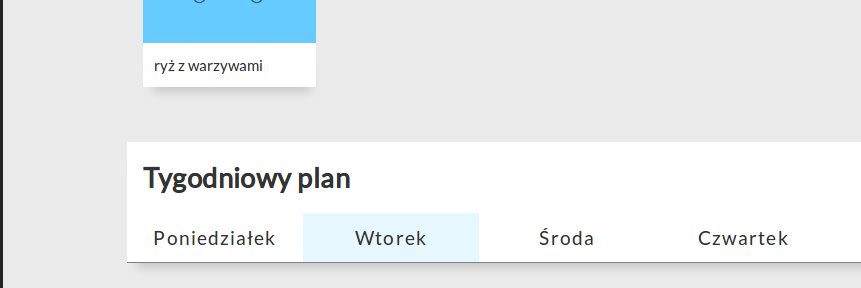
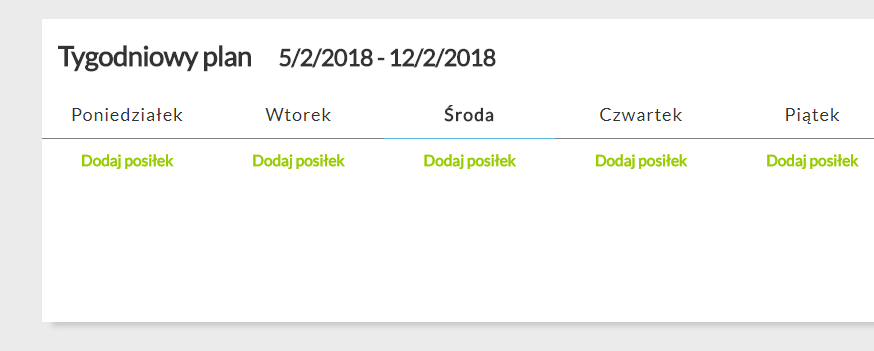
v2

diff --git a/public/javascripts/newMealCtrl.js b/public/javascripts/newMealCtrl.js
@@ -5,24 +5,50 @@ function($scope,$location,auth,$http){
 
 	$scope.editmeal=false;
 	var currentEditedID;
-	$scope.currentChoice;
-	$scope.choiceButton="Dodaj posiłek"
-	$scope.newMealName = "Nazwa posiłku"
+	$scope.currentChoice="add";
+	$scope.choiceButton="DODAJ"
+	$scope.newMealName = ""
 	$scope.ingredients = [{name: "",count: 1,unit: "" }];
 
 	$scope.addMeal = function(){
 		postData = { name:$scope.newMealName,username:auth.currentUser(),products:$scope.ingredients};
 		if($scope.currentChoice=="add"){
-			$http.post("/mealslist", postData).success(function(data2,status) {
+			console.log("xd")
+			$http.post("/mealslist", postData).then(function(response) {
 				succesModalonEdit('Dodałeś posiłek','Dodaj kolejny, lub przejdź do układania planu');
 				$scope.ingredients = [{name: "",count: 1,unit: "" }];
-				$scope.newMealName = "Nazwa posiłku"
+				$scope.newMealName=""
+			},function(response){
+				var errormessage = '';
+				response.data.forEach(element => {
+					errormessage+=`<div style="display:block">&#9679;&nbsp;${element}</div>`
+				});
+				console.log(errormessage)
+				swal({
+					title:"Popraw błędy:",
+					type:"warning",
+					html: errormessage,
+				})
+				$scope.refresh();
 			});
 		}else{
-			$http.put("/mealslist/"+currentEditedID, postData).success(function() {
+			$http.put("/mealslist/"+currentEditedID, postData).then(function(response) {
 				succesModalonEdit('Posiłek został zedytowany','');
 				$scope.ingredients = [];
+				$scope.newMealName=""
 				$scope.refresh();
+			},function(response){
+				var errormessage = '';
+				response.data.forEach(element => {
+					errormessage+=`<div style="display:block">&#9679;&nbsp;${element}</div>`
+				});
+				console.log(errormessage)
+				swal({
+					title:"Popraw błędy:",
+					type:"warning",
+					html: errormessage,
+					showCloseButton : true
+				})
 			});
 		}
 		
@@ -52,14 +78,16 @@ function succesModalonEdit(message1,message2){
    		choiceElement.addClass('green');
    		var myEl = angular.element( document.querySelector( '#allMeals' ) );
 
-		$scope.editmeal = !$scope.editmeal
+		 
    		if(choice=='add'){
-   			$scope.choiceButton="Dodaj posiłek"
+			$scope.editmeal=false;
+   			$scope.choiceButton="DODAJ"
    			$scope.newMealName = "Nazwa posiłku"
 			$scope.ingredients = [{name: "",count: 1,unit: "" }];
    		}
    		if(choice=='edit'){
-   			$scope.choiceButton="Edytuj posiłek"
+			$scope.editmeal=true;
+   			$scope.choiceButton="EDYTUJ"
    			$scope.newMealName = 'Wybierz posiłek';
 			$scope.ingredients = [];
    		}
@@ -119,6 +147,8 @@ function succesModalonEdit(message1,message2){
 				'Posiłek został usunięty.',
 				'success'
 			)
+			$scope.ingredients = [];
+			$scope.newMealName
 		})
 	}
 

diff --git a/routes/dbroutes.js b/routes/dbroutes.js
@@ -20,14 +20,22 @@ router.get('/mealslist/:username', function(req,res,next){
 });
 
 router.post('/mealslist', function(req,res,next){
-  var meal = new Meal(req.body);
+  var products = req.body.products;
+  var name = req.body.name
+  var errors = [];
+  if(name==''){errors.push(`Wprowadź nazwę posiłku`)}
+  if(products.length==0){errors.push(`Wprowadz składniki`)}
+  products.forEach((element,i) => {
+    console.log(`${element.name} + ${element.unit}`)
+    if(element.name=='' || element.unit ==''){
+      errors.push(`Puste pola w składniku nr ${i+1}`)
+    }
+  });
 
-  req.checkBody("name", "Wprowadz nazwę posiłku").exists().notEmpty();
-  var errors = req.validationErrors();
-
-  if (errors) {
-      res.status(403).send('Wprowadz nazwę posiłku');
+  if (errors.length!=0) {
+      res.status(403).send(errors);
   } else {
+      var meal = new Meal(req.body);
       meal.save(function(err,meals){
         if(err){return next(err);}
         res.json(meals);
@@ -48,14 +56,28 @@ router.delete('/mealslist/:id', function(req,res,next){
 });
 
 router.put('/mealslist/:id', function(req,res,next){
-  var newName=req.body.name;
-  var newProducts=req.body.products;
-  Meal.findById(req.params.id,function(err,meal){
-    meal.updateMeal(newName,newProducts,function(err,meals){
-      res.json(meals);
+  var products = req.body.products;
+  var name = req.body.name
+  var errors = [];
+  if(name==''){errors.push(`Wprowadź nazwę posiłku`)}
+  if(products.length==0){errors.push(`Wprowadz składniki`)}
+  products.forEach((element,i) => {
+  if(element.name=='' || element.unit ==''){
+      errors.push(`Puste pola w składniku nr ${i+1}`)
+    }
+  });
+
+  if (errors.length!=0) {
+      res.status(403).send(errors);
+  }else{
+    Meal.findById(req.params.id,function(err,meal){
+      meal.updateMeal(name,products,function(err,meals){
+        res.json(meals);
+      })
     })
-  })
+  }
 })
+
 
 router.post('/register', function(req, res, next){
   if(!req.body.username || !req.body.password || !req.body.mail){

diff --git a/public/stylesheets/mealcontent.css b/public/stylesheets/mealcontent.css
@@ -11,7 +11,7 @@
 }
 }
 .form-control:focus, .unitSelect:focus, .rightBarinput:focus{
-     border-color: #5cb85c !important; 
+     border-color: #98cc02 !important; 
     outline: 0 ;
 }
 input.rightBarinput::-webkit-input-placeholder {
@@ -43,7 +43,7 @@ input.rightBarinput::-webkit-input-placeholder {
 	cursor:pointer;
 }
 .mealName:hover{
-	background-color :rgb(57, 208, 97);
+	background-color :#98cc02;
 }
 .custom-padding{
 	padding:10px;
@@ -171,7 +171,7 @@ input.rightBarinput::-webkit-input-placeholder {
 	height:auto;
 }
 #formcontent > *:focus{
-	border:1px solid #60d502 ;
+	border:1px solid #98cc02 ;
 	outline:none;
 }
 #formcontent #ingredientsTitle{
@@ -221,22 +221,22 @@ input.rightBarinput::-webkit-input-placeholder {
 	display: none;
 }
 #formcontent #ingredientsList .ingredientsRow input:focus {
-	border-bottom:solid 1px #60D502;
+	border-bottom:solid 1px #98cc02;
 	outline:none;
 }
 #formcontent #ingredientsList .ingredientsRow select:focus {
-	border-bottom:solid 1px #60D502;
+	border-bottom:solid 1px #98cc02;
 	outline:none;
 }
 
 #formcontent i{
 	cursor:pointer;
-	color:#60D502;
+	color:#98cc02;
 	font-size:20px;
 }
 #formcontent button{
-	background-color: #60D502;
-	border-color:#60D502;
+	background-color: #98cc02;
+	border-color:#98cc02;
 	font-weight:bold;
 	margin-top:15px;
 	width:100%;
@@ -281,10 +281,10 @@ input.rightBarinput::-webkit-input-placeholder {
 	border:none;
 	border-radius:0%;
 	font-weight:700;
-	color:rgb(57, 208, 97);
+	color:#98cc02;
 }
 #searchInput input::-webkit-input-placeholder { /* Chrome/Opera/Safari */
-	color:rgb(57, 208, 97);
+	color:#98cc02;
 	font-weight:700;
   }
 
@@ -350,7 +350,7 @@ input.rightBarinput::-webkit-input-placeholder {
     left: 260px;
     cursor:pointer;
     z-index:99999;
-    border-left: 1px solid #5cb85c;
+    border-left: 1px solid #98cc02;
 }
 #mealList .currentList{
 	display:inline-block;

diff --git a/public/stylesheets/style.css b/public/stylesheets/style.css
@@ -16,11 +16,7 @@ input{
 .editMealsChoice{
 	color:white;
 	background-color:rgba(0,0,0,0.4);	
-	position: absolute;
-    margin-left: 40px;
-    width: 100%;
-    right: 0;
-    top: 0;
+	height: 60px;
 	text-align:center;
 	font-size:17px;
 	margin-bottom:20px
@@ -32,6 +28,7 @@ input{
 	padding-left:1%;
 	padding-right:1%;
 	cursor:pointer;
+	height: 60px
 }
 .editMealsChoice > div:hover{
 	background-color:#252525;	
@@ -53,4 +50,11 @@ button{
 
 .floatRight{
 	float:none;
+}
+.blackx{
+	background-color:rgba(0, 0, 0, 0.2);
+	color:white
+}
+.green{
+	background-color:#98cc02
 }

diff --git a/public/stylesheets/landingpage.css b/public/stylesheets/landingpage.css
@@ -121,7 +121,7 @@ header{
 	    padding: 5px 12px !important;
 }
 .content button:hover{
-	background-color:#33cc33;
+	background-color:#98cc02;
 }
 .content input::-webkit-input-placeholder { /* Chrome/Opera/Safari */
   color: white;
@@ -213,7 +213,7 @@ padding-left: 5px;
 	font-weight:700;
 }
 .answerPanel button:first-child{
-	background-color:#00D800;
+	background-color:#98cc02;
 }
 .answerPanel button:hover{
 	opacity:0.8;

diff --git a/public/javascripts/mealsCtrl.js b/public/javascripts/mealsCtrl.js
@@ -217,7 +217,6 @@ function($scope,$location,auth,$http,$q,dates,$document){
 
 	$scope.$on('$viewContentLoaded', function(){
 		//animations
-		console.log("xd")
 		var mealsList = document.getElementById("mealList")
 		var showingbutton = document.getElementById("showingPanel")
 		var isShow=false;

diff --git a/public/stylesheets/navbar.css b/public/stylesheets/navbar.css
@@ -20,7 +20,7 @@
     color: #3399ff;
 }
 .sidenav span:nth-child(2):hover{
-    color: #33cc33;
+    color: #98cc02;
 }
 
 .sidenav .loginInfo{

diff --git a/public/stylesheets/overread.css b/public/stylesheets/overread.css
@@ -4,3 +4,8 @@
 .col-md-3{
 	position:static;
 }
+
+.btn-info{
+	background-color:#3D82FB !important;
+	border-color:#3D82FB !important;
+}

diff --git a/public/javascripts/mainCtrl.js b/public/javascripts/mainCtrl.js
@@ -9,4 +9,5 @@ function($scope,$location,auth){
 	
 	$scope.currentUser=auth.currentUser();
 	$scope.logout = auth.logOut;
+
 }]);

diff --git a/public/stylesheets/rightbar.css b/public/stylesheets/rightbar.css
@@ -40,7 +40,7 @@
 
 #content span{
 	cursor:pointer;
-	color:#66ff33;
+	color:#98cc02;
 }
 
 .product {
